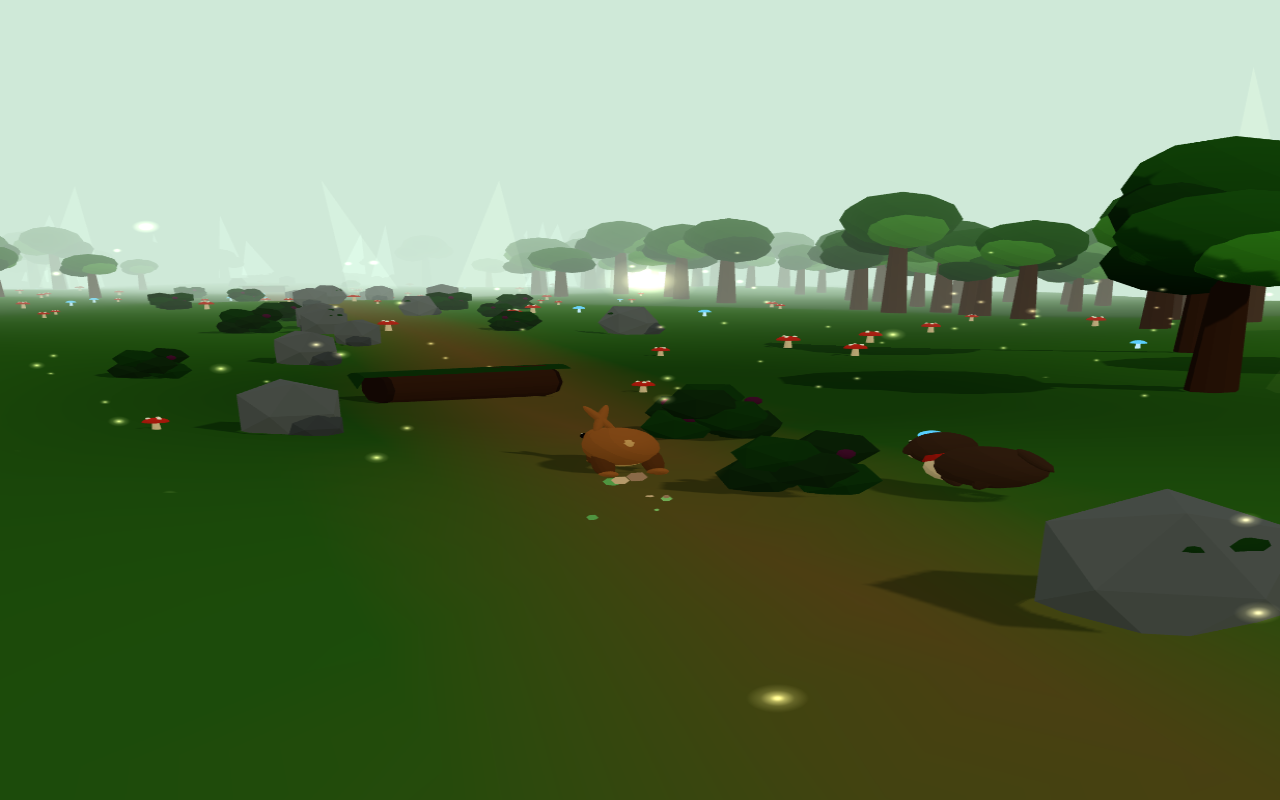
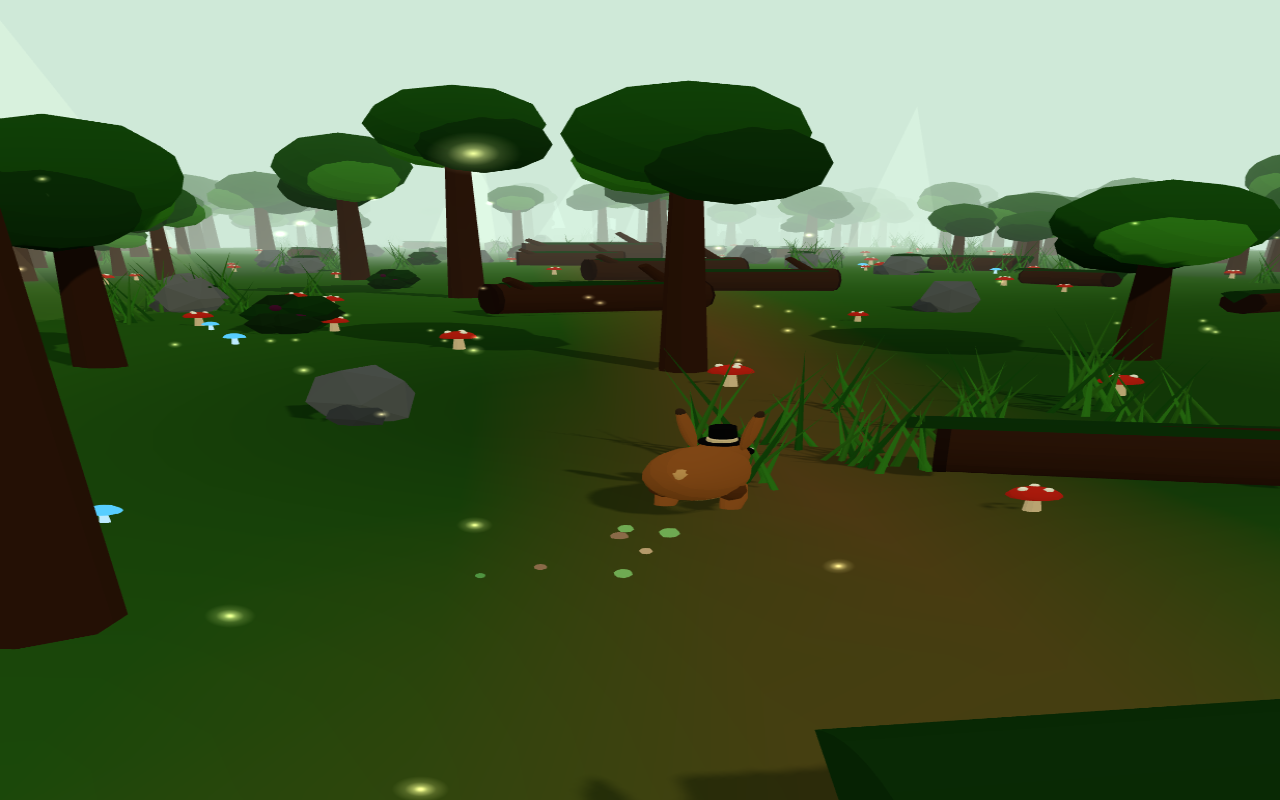
The Chase: published, and two placement bugs on the way out
Published, with a card taken from the game as it is now — the one on file
predated the wolfhounds, the top hat and the burrow.

Two real defects went with it, both found by measuring rather than looking.

Nothing was keeping its distance from a hollow log. The spacing check asked
`hit`, and `hit` answers "would the hare be stopped here", which takes the
height band into account — a hollow log's band starts above the ground, so at
y = 0 the answer was always no and things were being planted a unit and a half
away, which is to say inside it. Laying the wood out and running through it
are different questions and they get different methods now: `crowded` cares
only about distance. The nearest thing to a hollow log went from 1.6 units to
25.4, against a rule of 22.

And a tunnel is no use pointing the wrong way. The bore followed the same
random yaw every other log gets, so with the path bending up to a fifth of a
radian and the yaw adding a third of one on top, a hollow log could face
thirty degrees away from the direction you were running. It follows the path
now, with a few degrees of wobble.

Checked on the built copy rather than the dev server: loads clean, all three
squeak clips fetch, and a full run finishes in forty-three seconds with the
card up and every coordinate still a number.

diff --git a/the-chase/src/entities/wood.ts b/the-chase/src/entities/wood.ts
@@ -166,6 +166,33 @@ export class Wood {
     this.fade.setFocus(eye, this.fadeAt, FADE.radius);
   }
 
+  /**
+   * Is there anything at all within `gap` of here?
+   *
+   * Distance only, with no interest in what the thing is or how tall it
+   * stands. That is the whole difference between this and `hit`, and the
+   * reason both exist: one is asked while the wood is being laid out and the
+   * other while the hare is running through it.
+   */
+  private crowded(x: number, z: number, gap: number): boolean {
+    const key = Math.floor(z / Wood.BUCKET);
+    for (let k = key - 1; k <= key + 1; k++) {
+      const list = this.buckets.get(k);
+      if (!list) {
+        continue;
+      }
+      for (const o of list) {
+        const reach = o.radius + gap;
+        const dx = o.x - x;
+        const dz = o.z - z;
+        if (dx * dx + dz * dz < reach * reach) {
+          return true;
+        }
+      }
+    }
+    return false;
+  }
+
   private remember(o: Obstacle): void {
     const key = Math.floor(o.z / Wood.BUCKET);
     const list = this.buckets.get(key);
@@ -520,10 +547,13 @@ export class Wood {
 
         // Nothing lands on top of anything else — including the wood's own
         // trees, which are already in the buckets by the time this runs.
-        // Asking the collision list rather than keeping a second one of our
-        // own means a boulder cannot end up inside a trunk, which is what
-        // happened when the two were tracked separately.
-        if (this.hit(x, z, PROPS.spacing, 0)) {
+        //
+        // `crowded` and not `hit`: hit answers "would the hare be stopped
+        // here", which takes the height band into account, and a hollow log's
+        // band starts above the ground. So asking hit at y = 0 said no hollow
+        // log was ever in the way of anything, and things were planted a unit
+        // and a half from one — inside it, in fact.
+        if (this.crowded(x, z, PROPS.spacing)) {
           continue;
         }
         const i = placed;
@@ -532,7 +562,20 @@ export class Wood {
         pos.set(x, this.heightAt(x, z) - 0.2, z);
         // A log lies across the way you are going, give or take; everything
         // else is turned at random.
-        e.set(0, k.across ? rng.range(-0.35, 0.35) : rng.range(0, TAU), 0);
+        //
+        // A hollow one is the exception: you run through it, so its bore has
+        // to follow the path rather than sit at whatever angle came out of the
+        // generator. The path bends by up to a fifth of a radian and the
+        // random yaw was another third on top of that, so a tunnel could face
+        // thirty degrees away from the way you were travelling.
+        const lie =
+          k.kind === "hollow"
+            ? Math.atan((this.pathAt(z - 1) - this.pathAt(z + 1)) / -2) +
+              rng.range(-0.06, 0.06)
+            : k.across
+              ? rng.range(-0.35, 0.35)
+              : rng.range(0, TAU);
+        e.set(0, lie, 0);
         q.setFromEuler(e);
         scale.set(s, s, s);
         m.compose(pos, q, scale);
